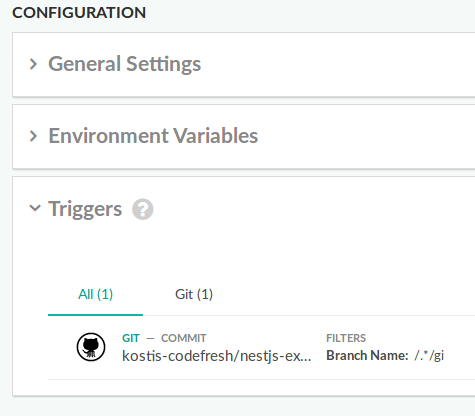
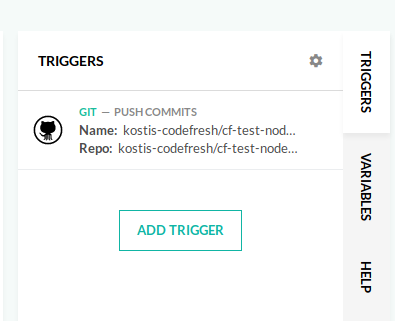
Triggers can now be enabled/disabled

diff --git a/_docs/configure-ci-cd-pipeline/triggers.md b/_docs/configure-ci-cd-pipeline/triggers.md
@@ -1,6 +1,6 @@
 ---
 title: "Pipeline Triggers"
-description: ""
+description: "Choose when your pipelines should run"
 group: configure-ci-cd-pipeline
 redirect_from:
   - /docs/pipeline-triggers/
@@ -13,7 +13,6 @@ To create an effective CI/CD process, it should be possible to trigger a Codefre
 
 Codefresh not only allows you to define different pipelines on a single project but it also offers you the capability to trigger them with completely separate mechanisms.
 
->Note that before you add any trigger to a new pipeline you must save it first
 
 ## Codefresh Trigger Types
 
@@ -34,7 +33,8 @@ lightbox="true"
 file="/images/pipeline/triggers/pipeline-examples.png"
 url="/images/pipeline/triggers/pipeline-examples.png"
 alt="Sample pipelines"
-max-width="100%"
+caption="Sample pipelines"
+max-width="70%"
 %}
 
 Behind the scenes these pipelines are triggered from different events
@@ -62,6 +62,7 @@ lightbox="true"
 file="/images/pipeline/triggers/default-git-trigger.png"
 url="/images/pipeline/triggers/default-git-trigger.png"
 alt="Default GIT Trigger"
+caption="Default GIT Trigger"
 max-width="50%"
 %}
 
@@ -74,7 +75,8 @@ lightbox="true"
 file="/images/pipeline/triggers/add-trigger-dialog.png"
 url="/images/pipeline/triggers/add-trigger-dialog.png"
 alt="Adding new Trigger dialog"
-max-width="60%"
+caption="Adding new Trigger dialog"
+max-width="70%"
 %}
 
 For more information see:
@@ -85,4 +87,27 @@ For more information see:
 * [Quay Triggers](quay-triggers)
 * [Artifactory Triggers](jfrog-triggers)
 * [Cron Trigger](cron-triggers)
+
+## Disabling triggers
+
+You can easily disable a trigger manually if you don't want to be active anymore.
+On the triggers tab click the gear icon on the top right (*Open advanced options*).
+
+{% include image.html
+lightbox="true"
+file="/images/pipeline/triggers/enable-triggers.png"
+url="/images/pipeline/triggers/enable-triggers.png"
+alt="Toggle a trigger on/off"
+caption="Toggle a trigger on/off"
+max-width="70%"
+%}
+
+
+Then click the toggle switch on each trigger that you want to enable/disable. 
+
+## What to read next
+
+* [Creating pipelines]({{site.baseurl}}/docs/configure-ci-cd-pipeline/pipelines/)
+* [Git triggers](git-triggers)
+* [Running pipelines locally]({{site.baseurl}}/docs/configure-ci-cd-pipeline/running-pipelines-locally/)
 

diff --git a/_docs/whats-new/whats-new.md b/_docs/whats-new/whats-new.md
@@ -6,9 +6,11 @@ redirect_from:
   - /docs/whats-new/
 toc: true
 ---
+Recent Codefresh updates:
 
 ### May 2019
 
+- Triggers can now be enabled/disabled - [documentation]({{site.baseurl}}/docs/configure-ci-cd-pipeline/triggers/#disabling-triggers)
 - New Github PR variables - [documentation]({{site.baseurl}}/docs/codefresh-yaml/variables/#github-pull-request-variables)
 - Inline Dockerfiles in build steps - [documentation]({{site.baseurl}}/docs/codefresh-yaml/steps/build/#inline-dockerfile)
 - LDAP SSO support (Enterprise) - [documentation]({{site.baseurl}}/docs/enterprise/single-sign-on/sso-ldap/)
